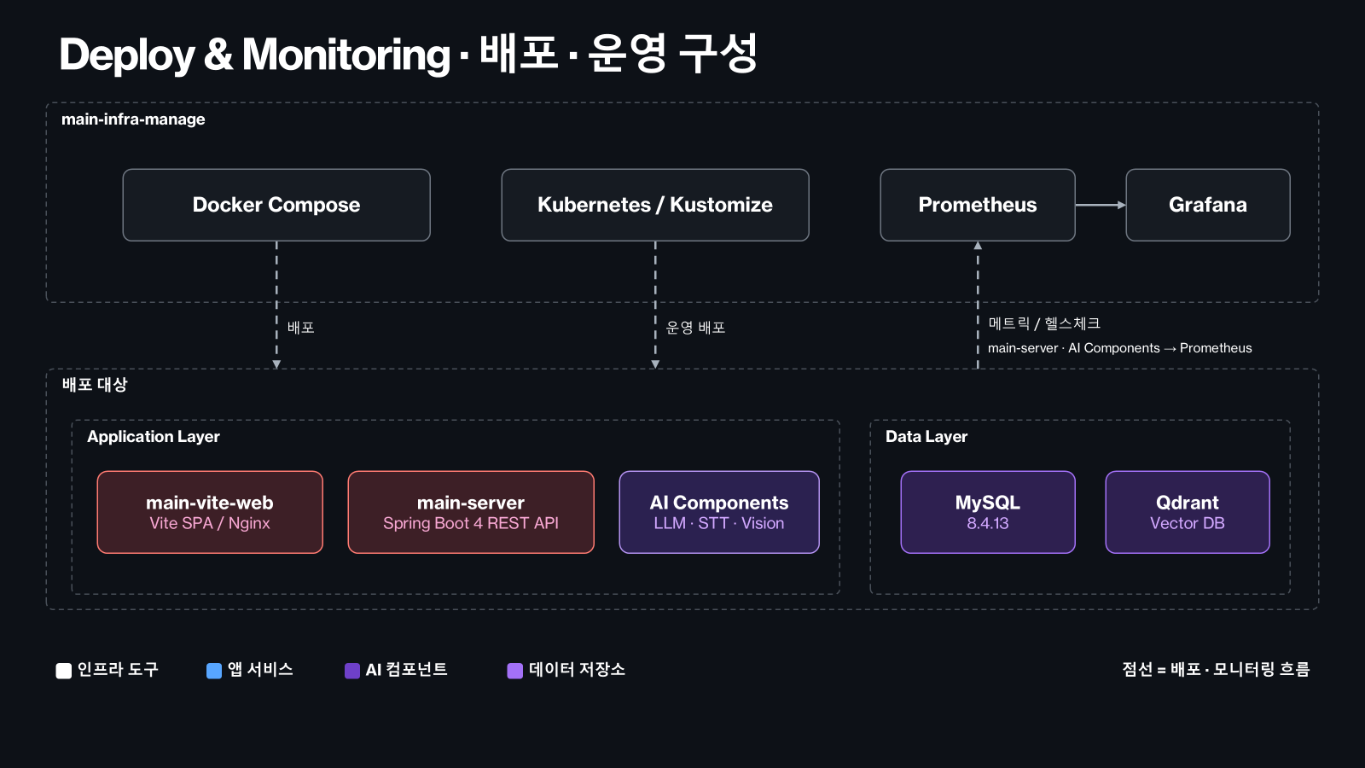
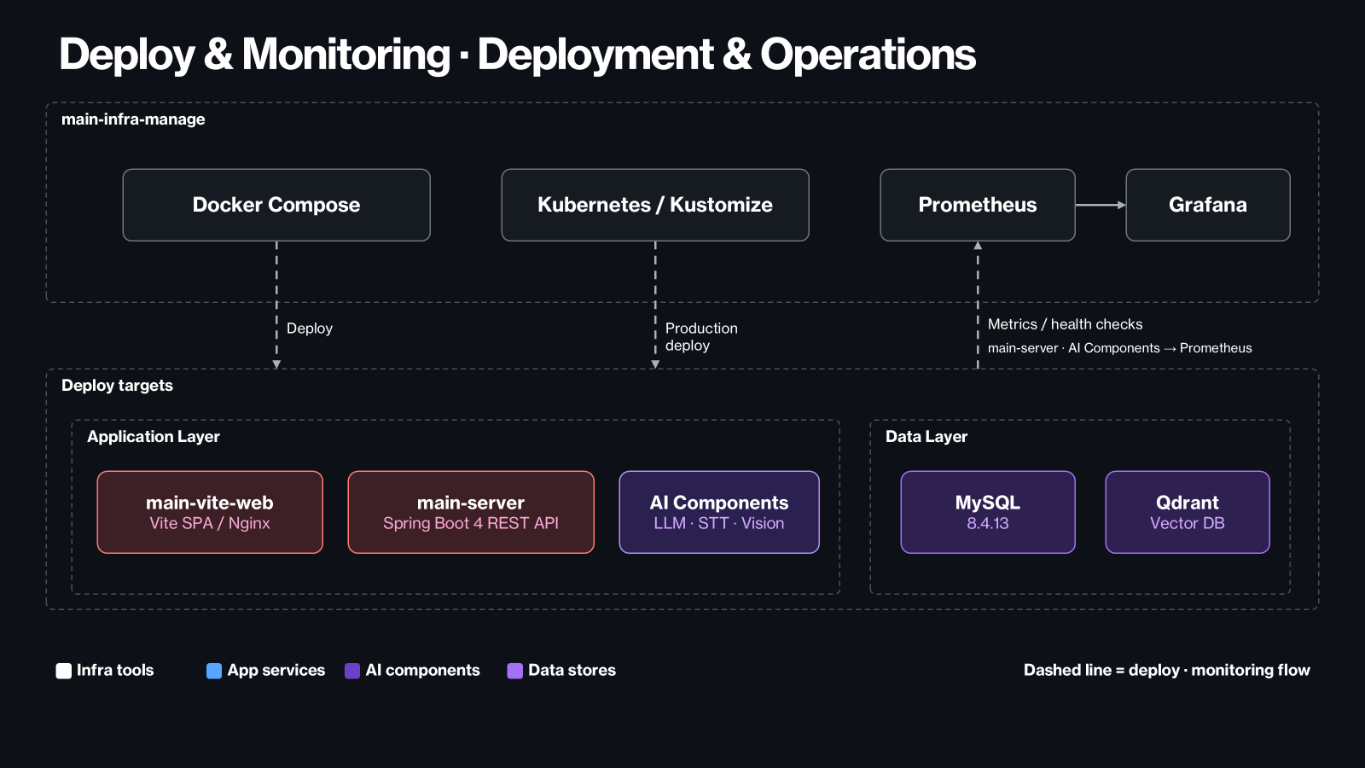
Add localized images and update README.kr for architecture and deployment diagrams

diff --git a/docs/localization/README.kr.md b/docs/localization/README.kr.md
@@ -26,7 +26,7 @@ Kubernetes 배포는 인프라 저장소에서 함께 관리합니다.
 
 ## 아키텍처 개요
 
-![시스템 아키텍처](../images/system-architecture.png)
+![시스템 아키텍처](../images/system-architecture.kr.png)
 
 ```text
 [ vite-web ]  ──/api──▶  [ spring-server ]  ──▶  [ ai-model ]
@@ -99,15 +99,15 @@ Prometheus와 Grafana로 수집합니다.
 
 ### 배포·모니터링 개요
 
-![배포·운영 구성](../images/deploy-monitoring.png)
+![배포·운영 구성](../images/deploy-monitoring.kr.png)
 
 ### Docker Compose 구성
 
-![컨테이너 플랫폼 · Docker Compose](../images/docker-compose.png)
+![컨테이너 플랫폼 · Docker Compose](../images/docker-compose.kr.png)
 
 ### Kubernetes 구성
 
-![컨테이너 플랫폼 · Kubernetes](../images/kubernetes.png)
+![컨테이너 플랫폼 · Kubernetes](../images/kubernetes.kr.png)
 
 ## 저장소별 개발 안내
 
